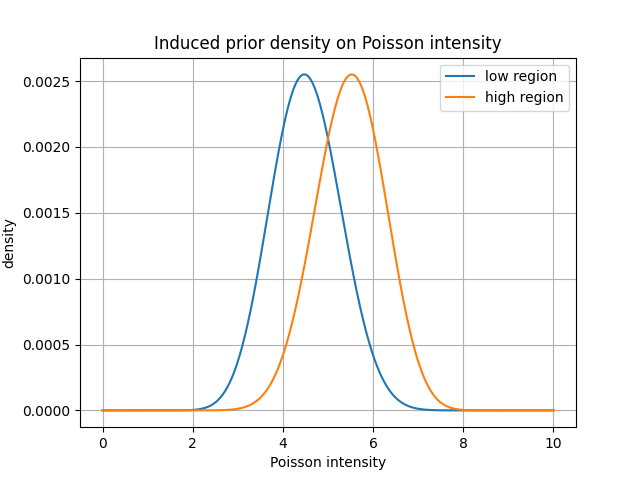
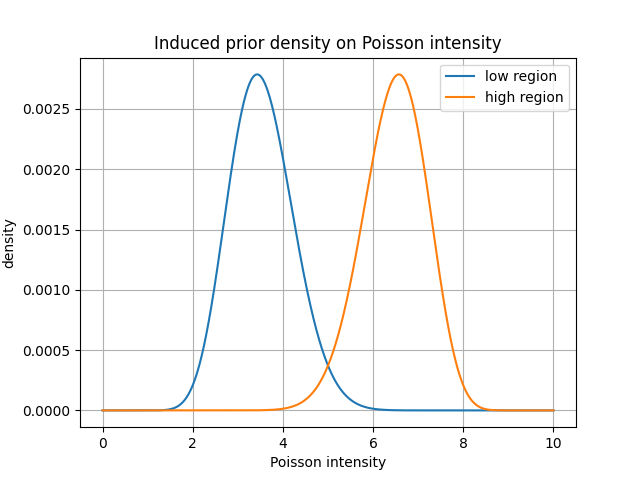
new parameters, better plots

diff --git a/source/syntheticdata.py b/source/syntheticdata.py
@@ -58,7 +58,9 @@ def checkerboard(nn, ncheck, a, b):
 
 def experiment_1(
     EstimatorClass=pgd.PolyaGammaDensity2D, 
-    n=64, nn=20, a=4.5, b=5.5, rho=16, v2=0.1, lam=10, nmax_mix=60):
+    # n=64, nn=20, a=4.5, b=5.5, rho=16, v2=0.1, lam=10, nmax_mix=60):
+    n=64, nn=20, a=3.5, b=6.5, rho=16, v2=0.1, lam=10, nmax_mix=60):
+
 
 
     # preparing data
@@ -157,10 +159,10 @@ def experiment_1(
     plt.figure()
 
 
-    print('sampling 130 posterior')
+    print('sampling 230 posterior')
     sres=0
     count = 0
-    for i, res in enumerate(estim.sample_posterior(initial_f = fge, n_iter=130)):
+    for i, res in enumerate(estim.sample_posterior(initial_f = fge, n_iter=230)):
         field = estim.field_from_f(res)
         sres += field
         if i%10==1 and count<12:
@@ -175,7 +177,7 @@ def experiment_1(
     plt.xticks([])
     plt.yticks([])
     
-    estim.imshow(sres/130)
+    estim.imshow(sres/230)
     print('...done')
 
 
